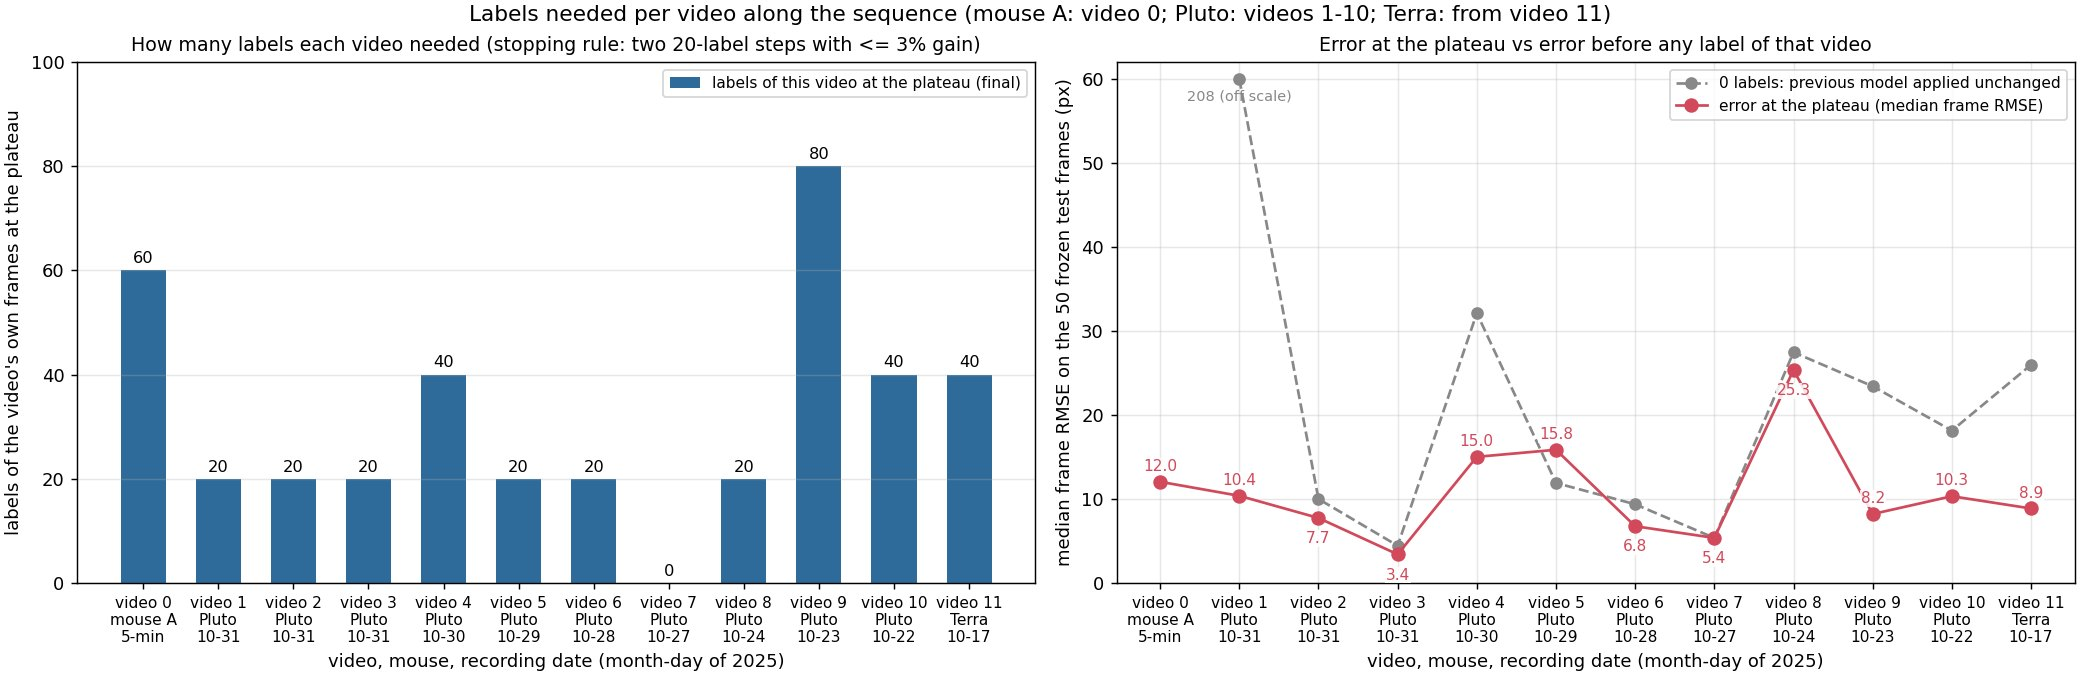
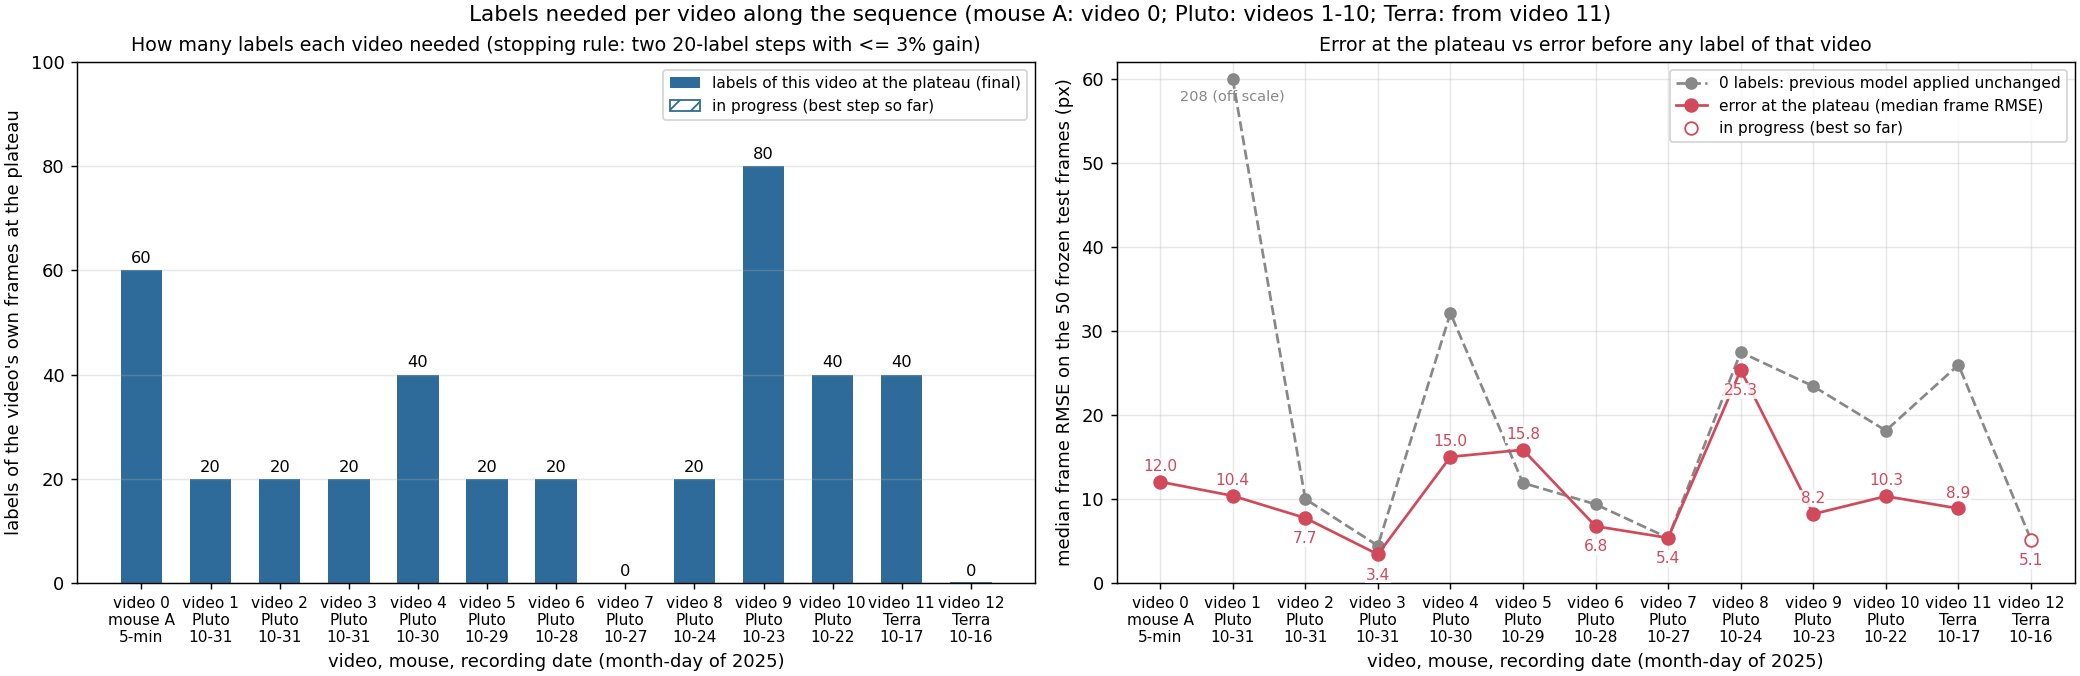
Video 12 step 1: 20 labels 5.77 px (one flat step against the biased 0-label number)
Claude-Session: https://claude.ai/code/session_017MK5SWBFFQAu8ejFk1z7fh

diff --git a/report/index.html b/report/index.html
@@ -78,7 +78,7 @@ math[display="block"]{margin:10px 0 6px;text-align:left;overflow-x:auto;max-widt
 
 <header>
   <h1><span lang="zh">小鼠眼睛关键点追踪：做了什么，结果是什么</span><span lang="en">Mouse eye keypoint tracking: what was done and what came out</span></h1>
-  <p class="muted small">Zhiheng Li (University of Minnesota), Kaiwen Sheng (Stanford) · <span lang="zh">页面生成时间</span><span lang="en">page built</span> 2026-10-04 15:34 · <a href="https://github.com/ZhihengLi0/mouse-behavior-tracking">GitHub: ZhihengLi0/mouse-behavior-tracking</a></p>
+  <p class="muted small">Zhiheng Li (University of Minnesota), Kaiwen Sheng (Stanford) · <span lang="zh">页面生成时间</span><span lang="en">page built</span> 2026-10-04 16:14 · <a href="https://github.com/ZhihengLi0/mouse-behavior-tracking">GitHub: ZhihengLi0/mouse-behavior-tracking</a></p>
 
   <div class="text" lang="zh">
     <p><b>任务：</b>用 DeepLabCut 在小鼠眼睛视频的每一帧上找 8 个点：瞳孔上、下、左、右，上眼睑、下眼睑，鼻侧眼角、颞侧眼角。由这 8 个点得到瞳孔大小、眼睛睁开程度和眨眼，之后与脑记录对齐。</p>
@@ -105,7 +105,7 @@ math[display="block"]{margin:10px 0 6px;text-align:left;overflow-x:auto;max-widt
       <li><b>瞳孔面积怎么算？</b>按 2026 年 9 月 20 日明确的定义，瞳孔四个点都是椭圆端点，在 12 个视频的 594 帧测试帧上，四点法的面积误差中位数是 6.6%，三点法是 8.3%；视频 4 和 8 上面积仍然不准（第 9 步）。</li>
       <li><b>眨眼怎么判断？</b>还没有结果：眨眼的定义和真值还没有定。目前只有一个初步观察：瞳孔四个点的平均置信度低于 0.527，可以找出人工把四个瞳孔点都留空的帧（28 帧里 27 帧，其余帧误报 4.1%），但留空的帧不等于眨眼（第 10 步）。</li>
     </ol>
-    <p><b>进度：</b>已完成 12 个视频（视频 0–11）。</p>
+    <p><b>进度：</b>已完成 12 个视频（视频 0–11）；视频 12 进行中，按 0 / 20 / 40 / … 帧的误差为 5.13 / 5.77 px。</p>
   </div>
   <div class="text" lang="en">
     <p><b>Task:</b> DeepLabCut finds 8 points on every frame of a mouse-eye video: pupil top, bottom, left, right; upper and lower eyelid; nasal and temporal eye corner. From these we get pupil size, eye opening and blinks, to be aligned with brain recordings later.</p>
@@ -132,7 +132,7 @@ math[display="block"]{margin:10px 0 6px;text-align:left;overflow-x:auto;max-widt
       <li><b>How to compute the pupil area?</b> Under the definitions made explicit on 2026-09-20 all four pupil points are ellipse endpoints, and on the 594 test frames of 12 videos the four-point area has a median error of 6.6% against 8.3% for the three-point rule; on videos 4 and 8 the area is still not accurate (step 9).</li>
       <li><b>How to detect blinks?</b> No result yet: the definition of a blink and its truth are not fixed. Only a preliminary observation so far: a mean confidence of the four pupil points below 0.527 finds the frames in which the labeler left all four pupil points empty (27 of 28, with 4.1% of the other frames flagged), but an empty frame is not the same as a blink (step 10).</li>
     </ol>
-    <p><b>Status:</b> 12 videos finished (videos 0–11).</p>
+    <p><b>Status:</b> 12 videos finished (videos 0–11); video 12 in progress, error at 0 / 20 / 40 / … labels: 5.13 / 5.77 px.</p>
   </div>
 
   <div class="text" lang="zh">
@@ -579,6 +579,7 @@ math[display="block"]{margin:10px 0 6px;text-align:left;overflow-x:auto;max-widt
       <div class="item"><img src="assets/scale_video09.jpg" alt="Video 9: error vs own labels" loading="lazy"><div class="cap"><span lang="zh">视频 9（Pluto，2025-10-23）：平台点 80 帧，8.20 px</span><span lang="en">Video 9 (Pluto, 2025-10-23): plateau at 80 labels, 8.20 px</span></div></div>
       <div class="item"><img src="assets/scale_video10.jpg" alt="Video 10: error vs own labels" loading="lazy"><div class="cap"><span lang="zh">视频 10（Pluto，2025-10-22）：平台点 40 帧，10.32 px</span><span lang="en">Video 10 (Pluto, 2025-10-22): plateau at 40 labels, 10.32 px</span></div></div>
       <div class="item"><img src="assets/scale_video11.jpg" alt="Video 11: error vs own labels" loading="lazy"><div class="cap"><span lang="zh">视频 11（Terra，2025-10-17）：平台点 40 帧，8.86 px</span><span lang="en">Video 11 (Terra, 2025-10-17): plateau at 40 labels, 8.86 px</span></div></div>
+      <div class="item"><img src="assets/scale_video12.jpg" alt="Video 12: error vs own labels" loading="lazy"><div class="cap"><span lang="zh">视频 12（Terra，2025-10-16）：进行中</span><span lang="en">Video 12 (Terra, 2025-10-16): in progress</span></div></div>
     </div></div>
     <figcaption lang="zh"><span class="tag">图 5-3 怎么看：</span>每个视频自己的曲线排成一行，从视频 0 到最新的视频，可以左右拖动；每张图下面注明视频、老鼠、日期和平台点。三幅小图的读法以视频 9 为例。左图：横轴是这个视频自己的标注帧数，纵轴是误差；20 帧 10.4 px，40 帧 8.6 px，80 帧 8.2 px，之后两步（9.4、8.6 px）都没有再改善，规则在 120 帧触发，平台点记为 80 帧。中图：8 个点各自的误差，瞳孔下点（蓝）最难。右图：不需要标注的指标，紫线是整段视频里被跳动规则标出的帧的比例，随标注增加从 18% 降到 9%。</figcaption>
     <figcaption lang="en"><span class="tag">Figure 5-3, how to read:</span>The curves of every video in one row, from video 0 to the newest; scroll sideways. Under each figure: video, mouse, date and plateau point. How to read the three panels, with video 9 as the example. Left: x = this video's own labels, y = error; 10.4 px at 20 labels, 8.6 px at 40, 8.2 px at 80, then two steps without a gain (9.4, 8.6 px), so the rule fired at 120 and the plateau point is 80. Middle: error of each of the 8 points; pupil bottom (blue) is the hardest. Right: label-free signals; the purple line is the share of video frames flagged by the jump rule, falling from 18% to 9% as labels are added.</figcaption>
@@ -614,6 +615,7 @@ math[display="block"]{margin:10px 0 6px;text-align:left;overflow-x:auto;max-widt
 <tr><td>9</td><td>Pluto<br>2025-10-23</td><td>420</td><td>23.41 / 10.39 / 8.55 / 8.67 / 8.20 / 9.39 / 8.63</td><td><span lang="zh"><b>80 帧，8.20 px</b></span><span lang="en"><b>80 labels, 8.20 px</b></span></td><td>120</td><td>80</td></tr>
 <tr><td>10</td><td>Pluto<br>2025-10-22</td><td>500</td><td>18.13 / 11.83 / 10.32 / 10.49 / 10.76</td><td><span lang="zh"><b>40 帧，10.32 px</b></span><span lang="en"><b>40 labels, 10.32 px</b></span></td><td>80</td><td>40</td></tr>
 <tr><td>11</td><td>Terra<br>2025-10-17</td><td>540</td><td>25.96 / 9.24 / 8.86 / 8.77 / 8.65</td><td><span lang="zh"><b>40 帧，8.86 px</b></span><span lang="en"><b>40 labels, 8.86 px</b></span></td><td>80</td><td>40</td></tr>
+<tr><td>12</td><td>Terra<br>2025-10-16</td><td>580</td><td>5.13 / 5.77</td><td><span lang="zh">进行中（目前最好：0 帧，5.13 px）</span><span lang="en">in progress (best so far: 0 labels, 5.13 px)</span></td><td>20</td><td>–</td></tr>
       </tbody>
     </table>
   </div>

diff --git a/report/index_en.html b/report/index_en.html
@@ -75,7 +75,7 @@ math[display="block"]{margin:10px 0 6px;text-align:left;overflow-x:auto;max-widt
 
 <header>
   <h1><span lang="en">Mouse eye keypoint tracking: what was done and what came out</span></h1>
-  <p class="muted small">Zhiheng Li (University of Minnesota), Kaiwen Sheng (Stanford) · <span lang="en">page built</span> 2026-10-04 15:34 · <a href="https://github.com/ZhihengLi0/mouse-behavior-tracking">GitHub: ZhihengLi0/mouse-behavior-tracking</a></p>
+  <p class="muted small">Zhiheng Li (University of Minnesota), Kaiwen Sheng (Stanford) · <span lang="en">page built</span> 2026-10-04 16:14 · <a href="https://github.com/ZhihengLi0/mouse-behavior-tracking">GitHub: ZhihengLi0/mouse-behavior-tracking</a></p>
 
   
   <div class="text" lang="en">
@@ -103,7 +103,7 @@ math[display="block"]{margin:10px 0 6px;text-align:left;overflow-x:auto;max-widt
       <li><b>How to compute the pupil area?</b> Under the definitions made explicit on 2026-09-20 all four pupil points are ellipse endpoints, and on the 594 test frames of 12 videos the four-point area has a median error of 6.6% against 8.3% for the three-point rule; on videos 4 and 8 the area is still not accurate (step 9).</li>
       <li><b>How to detect blinks?</b> No result yet: the definition of a blink and its truth are not fixed. Only a preliminary observation so far: a mean confidence of the four pupil points below 0.527 finds the frames in which the labeler left all four pupil points empty (27 of 28, with 4.1% of the other frames flagged), but an empty frame is not the same as a blink (step 10).</li>
     </ol>
-    <p><b>Status:</b> 12 videos finished (videos 0–11).</p>
+    <p><b>Status:</b> 12 videos finished (videos 0–11); video 12 in progress, error at 0 / 20 / 40 / … labels: 5.13 / 5.77 px.</p>
   </div>
 
   
@@ -458,6 +458,7 @@ math[display="block"]{margin:10px 0 6px;text-align:left;overflow-x:auto;max-widt
       <div class="item"><img src="assets/scale_video09.jpg" alt="Video 9: error vs own labels" loading="lazy"><div class="cap"><span lang="en">Video 9 (Pluto, 2025-10-23): plateau at 80 labels, 8.20 px</span></div></div>
       <div class="item"><img src="assets/scale_video10.jpg" alt="Video 10: error vs own labels" loading="lazy"><div class="cap"><span lang="en">Video 10 (Pluto, 2025-10-22): plateau at 40 labels, 10.32 px</span></div></div>
       <div class="item"><img src="assets/scale_video11.jpg" alt="Video 11: error vs own labels" loading="lazy"><div class="cap"><span lang="en">Video 11 (Terra, 2025-10-17): plateau at 40 labels, 8.86 px</span></div></div>
+      <div class="item"><img src="assets/scale_video12.jpg" alt="Video 12: error vs own labels" loading="lazy"><div class="cap"><span lang="en">Video 12 (Terra, 2025-10-16): in progress</span></div></div>
     </div></div>
     
     <figcaption lang="en"><span class="tag">Figure 5-3, how to read:</span>The curves of every video in one row, from video 0 to the newest; scroll sideways. Under each figure: video, mouse, date and plateau point. How to read the three panels, with video 9 as the example. Left: x = this video's own labels, y = error; 10.4 px at 20 labels, 8.6 px at 40, 8.2 px at 80, then two steps without a gain (9.4, 8.6 px), so the rule fired at 120 and the plateau point is 80. Middle: error of each of the 8 points; pupil bottom (blue) is the hardest. Right: label-free signals; the purple line is the share of video frames flagged by the jump rule, falling from 18% to 9% as labels are added.</figcaption>
@@ -493,6 +494,7 @@ math[display="block"]{margin:10px 0 6px;text-align:left;overflow-x:auto;max-widt
 <tr><td>9</td><td>Pluto<br>2025-10-23</td><td>420</td><td>23.41 / 10.39 / 8.55 / 8.67 / 8.20 / 9.39 / 8.63</td><td><span lang="en"><b>80 labels, 8.20 px</b></span></td><td>120</td><td>80</td></tr>
 <tr><td>10</td><td>Pluto<br>2025-10-22</td><td>500</td><td>18.13 / 11.83 / 10.32 / 10.49 / 10.76</td><td><span lang="en"><b>40 labels, 10.32 px</b></span></td><td>80</td><td>40</td></tr>
 <tr><td>11</td><td>Terra<br>2025-10-17</td><td>540</td><td>25.96 / 9.24 / 8.86 / 8.77 / 8.65</td><td><span lang="en"><b>40 labels, 8.86 px</b></span></td><td>80</td><td>40</td></tr>
+<tr><td>12</td><td>Terra<br>2025-10-16</td><td>580</td><td>5.13 / 5.77</td><td><span lang="en">in progress (best so far: 0 labels, 5.13 px)</span></td><td>20</td><td>–</td></tr>
       </tbody>
     </table>
   </div>

diff --git a/README.md b/README.md
@@ -25,7 +25,7 @@ per-frame predictions stay local; git carries code, documentation and audited ag
 | Blink / area analysis | per-video time series in `<video>/results/blink_area_analysis/`; across videos (`v2_new_pupil_top_video_scaling/results/blink_area_consistency.png`): 4-point area better on 7 of 8 test sets; lowest pupil confidence < ~0.2 separates all 16 human closed-eye frames (the production 0.6 cut flags ~half of open frames); area correlates with eye opening in every video |
 | Finished | **video 10** (Pluto, 2025-10-22, the last Pluto video of the sequence): test50 / val20 / batch01 pre-labeled with the video-9 80-label model (1014) and corrected by the labeler (test50: 234 of 400 points moved), test set frozen; 0 labels (model 1014) = 18.13 px (p90 32.0, 8% of frames > 50 px), 20 labels = 11.83 px (p90 27.7, 2% > 50 px), 40 labels = 10.32 px (p90 26.1, 92% of keypoints with confidence >= 0.6), 60 labels = 10.49 px (p90 27.2, 8% > 50 px; no gain over 10.32), 80 labels = 10.76 px (p90 188.7, 12% > 50 px; no gain): the plateau rule fired at 80 (two steps without a gain on 10.32), finished at **40 labels, 10.32 px** (user decision 2026-10-03) |
 | Finished | **video 11** (Terra = mouse C, 2025-10-17, the first video of a new mouse): test50 / val20 / batch01 pre-labeled with the video-10 40-label model (1112) and corrected by the labeler (test50: 249 of 400 points moved), test set frozen; 0 labels (model 1112) = 25.96 px (p90 80.1, 16% of frames > 50 px), 20 labels = 9.24 px (p90 166.4, 20% of frames > 50 px), 40 labels = 8.86 px (p90 17.5, 4% of frames > 50 px, 94% of keypoints with confidence >= 0.6; 4.1% better on the median), 60 labels = 8.77 px (p90 12.9, 2% of frames > 50 px, 97% confidence; 1.0% better than 8.86, a flat step), 80 labels = 8.65 px (p90 13.1, 2% > 50 px, 98% confidence; 1.4% better, a second flat step): the plateau rule fired at 80, finished at **40 labels, 8.86 px** (user decision 2026-10-04). Training set of every step = 540 carried labels of videos 0-10 + this video's labels; shuffles 1211, 1212, ... |
-| In progress | **video 12** (Terra, 2025-10-16): test50 / val20 / batch01 extracted and pre-labeled with the video-11 40-label model (1212) and corrected by the labeler (test50: 110 of 400 points moved), test set frozen; 0 labels (model 1212) = 5.13 px (biased low: this model produced the pre-labels; the other video-11 models give 8.3-10.7 px); step 1 (20 labels, shuffle 1311) training. Training set of every step = 580 carried labels of videos 0-11 + this video's labels; shuffles 1311, 1312, ... |
+| In progress | **video 12** (Terra, 2025-10-16): test50 / val20 / batch01 extracted and pre-labeled with the video-11 40-label model (1212) and corrected by the labeler (test50: 110 of 400 points moved), test set frozen; 0 labels (model 1212) = 5.13 px (biased low: this model produced the pre-labels; the other video-11 models give 8.3-10.7 px); 20 labels (shuffle 1311) = 5.77 px (p90 7.7, 0% of frames > 50 px, 99% of keypoints with confidence >= 0.6; no gain over the biased 0-label number, one flat step by the rule); batch 2 being selected (2026-10-04 16:14). Training set of every step = 580 carried labels of videos 0-11 + this video's labels; shuffles 1311, 1312, ... |
 | Analysis (2026-10-04) | blink and pupil area on all 12 finished videos (`v2_new_pupil_top_video_scaling/results/blink_and_area/`): four-point area median error 6.6% (three-point 8.3%); closed eye best detected by the mean confidence of the four pupil points (27 of 28 closed frames, 4.1% of open frames flagged; the earlier rule flags 55.7%); area traces still contain tracking jumps not covered by the closure rule. Error and confidence per keypoint (`.../results/keypoint_confidence_error/`): pupil top is the least accurate point (10.9 px median) |
 | Next | Terra units 13-18, one recording day each, newest first |
 

diff --git a/v2_new_pupil_top_video_scaling/results/README.md b/v2_new_pupil_top_video_scaling/results/README.md
@@ -24,7 +24,7 @@ snapshot with the best validation mAP after the first learning-rate drop (epochs
 | 9 `9_20251023_Pluto1` | mouse B, 19.9 min, 2025-10-23 | 420 (videos 0-3 + 40 of video 4 + 20 each of videos 5, 6, 8) | convention v2: 23.41 / 10.39 / 8.55 / 8.67 / 8.20 / 9.39 / 8.63 (120 labels) | **80 labels** (rule fired at 120; user decision 2026-10-01) | 8.20 px |
 | 10 `10_20251022_Pluto1` | mouse B, 19.9 min, 2025-10-22 | 500 (videos 0-3 + 40 of video 4 + 20 each of videos 5, 6, 8 + 80 of video 9) | convention v2: 18.13 / 11.83 / 10.32 / 10.49 / 10.76 | **40 labels** (rule fired at 80; user decision 2026-10-03) | 10.32 px |
 | 11 `11_20251017_Terra_spont_1` | mouse C (Terra), 19.9 min, 2025-10-17 | 540 (videos 0-3 + 40 of video 4 + 20 each of videos 5, 6, 8 + 80 of video 9 + 40 of video 10) | convention v2: 25.96 / 9.24 / 8.86 / 8.77 / 8.65 | **40 labels** (rule fired at 80; user decision 2026-10-04) | 8.86 px |
-| 12 `12_20251016_Terra_spont_2` | mouse C (Terra), 19.9 min, 2025-10-16 | 580 (as for video 11 + 40 of video 11) | convention v2: 5.13 (0 labels; biased low by the pre-labels; see the video's README) | in progress | – |
+| 12 `12_20251016_Terra_spont_2` | mouse C (Terra), 19.9 min, 2025-10-16 | 580 (as for video 11 + 40 of video 11) | convention v2: 5.13 (0 labels; biased low by the pre-labels; see the video's README) / 5.77 | in progress | – |
 
 `labels_to_plateau.png` / `labels_to_plateau.csv` (2026-09-30): the plateau point of every video in the sequence as one figure - labels needed (left) and the error at the plateau vs the 0-label error (right); `scripts/plot_labels_to_plateau.py`. The csv is the table above in machine-readable form and is updated when a video finishes.
 

diff --git a/v2_new_pupil_top_video_scaling/12_20251016_Terra_spont_2/results/README.md b/v2_new_pupil_top_video_scaling/12_20251016_Terra_spont_2/results/README.md
@@ -11,7 +11,11 @@ total) + this video's labels; shuffles 1311, 1312, ...
 | labels of this video | median | p90 | frames > 50 px | keypoints conf >= 0.6 | pool frames flagged by the jump rule |
 |---|---|---|---|---|---|
 | 0 (video-11 40-label model 1212, applied unchanged) | 5.13 px | 9.4 | 0% | 77% | – |
+| 20 (shuffle 1311) | 5.77 px | 7.7 | 0% | 99% | pending |
 
 The 0-label number is biased low: model 1212 produced the pre-labels of this test set and 290 of the 400 test points
 were left as pre-labeled, so its error on those points is 0. The other models of video 11 (20 / 60 / 80 labels), which
 did not produce the pre-labels, give 10.66 / 8.29 / 8.99 px on this test set (`../results/cross_video_matrix.csv`).
+
+Step 1 (20 labels): 5.77 px. Against the 0-label number (5.13 px, biased low by the pre-labels) this is no gain, so by the
+rule it counts as one flat step; against the other video-11 models on this test set (8.29-10.66 px) it is clearly better.
